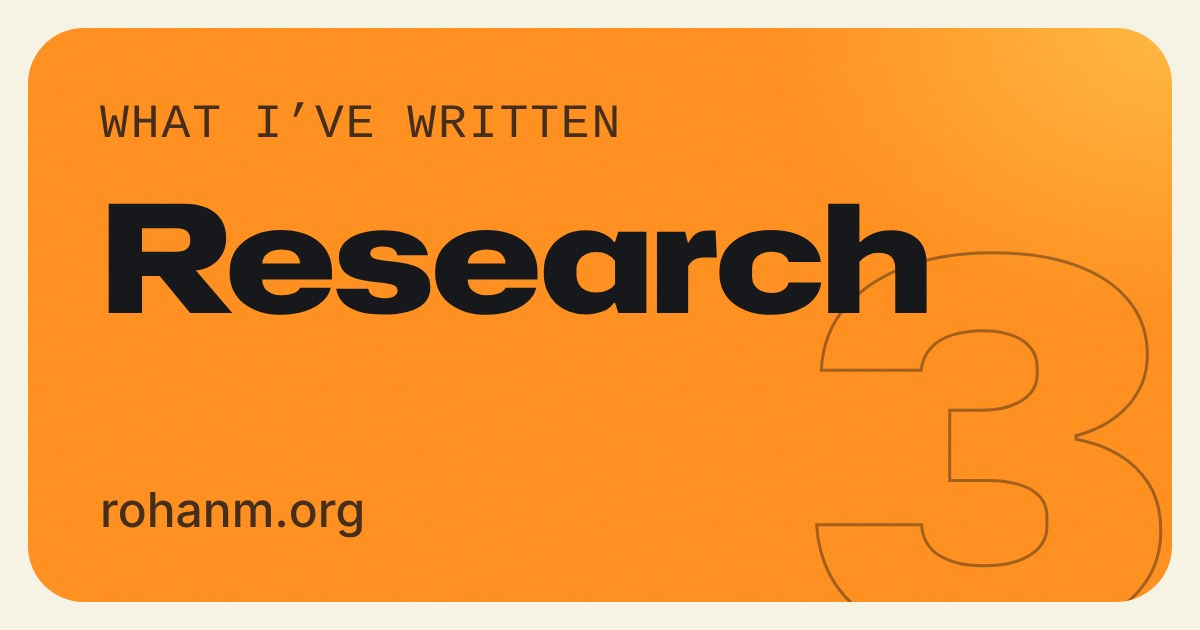
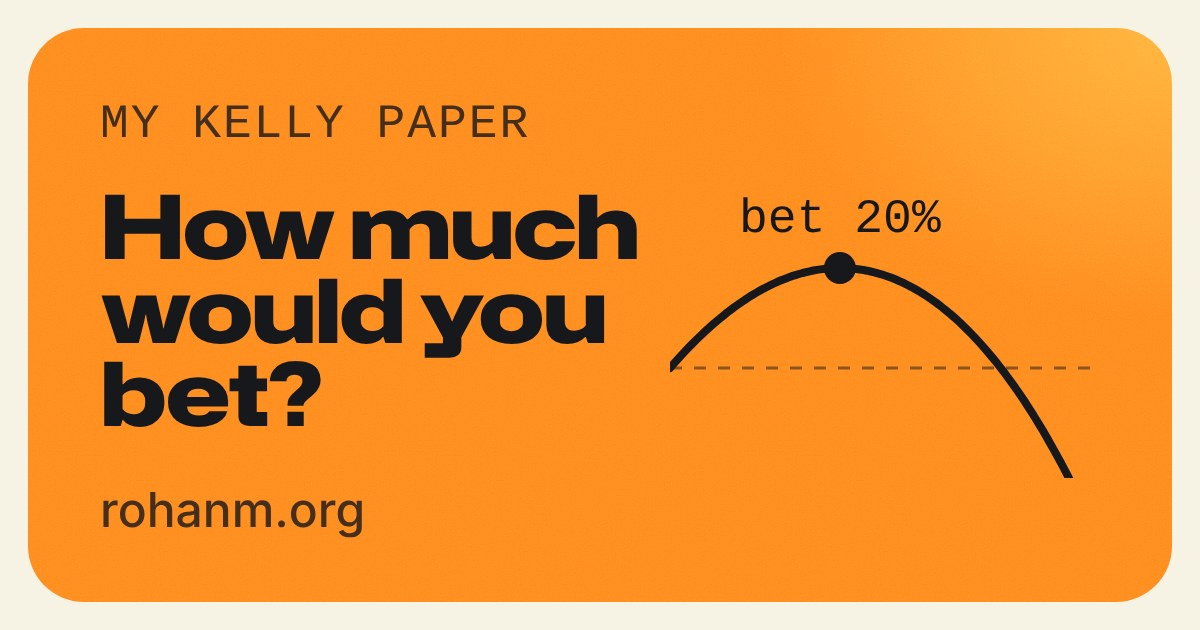
Add who he is to the Home card, and Kelly's question to Research's
- Home: the card is what LinkedIn shows for rohanm.org, and it lost the
  old og.png's context line. Under the name it now says "Math & CS / NYU
  Courant / IBM · Kalshi" at 48 px, in lines that fit beside the lab.
- Research: #26 landed, so the card leads with the Kelly explainer's
  "How much would you bet?" and the paper's growth curve, drawn from
  kelly.js for the page's default bet (a 50¢ contract at a 60% chance),
  peaking at "bet 20%". No axis labels: a feed shows the card too small.
- The harness now renders each card in a fresh tree. Before, React kept
  the title size fit() had set for Experience, so later cards inherited
  it; block names now use one size that fits the longest (Experience),
  which is what the merged cards show, so they're unchanged.
- Alt text follows: Home's names the school and companies, Research's
  describes the question and the curve.

Claude-Session: https://claude.ai/code/session_017h13VFUKe4BLhY64XqK4PP

diff --git a/Ashif/scripts/og/Card.jsx b/Ashif/scripts/og/Card.jsx
@@ -1,4 +1,5 @@
 import SpotPoster from '@/components/projects/spot/SpotPoster';
+import { breakEven, kelly, perBet } from '@/components/research/kelly/kelly';
 import { projects } from '@/data/portfolioData';
 import { BLOCK_CLASS, notFoundRoute, ogCard, routeNumber, routes } from '@/routes';
 import { cn } from '@/lib/utils';
@@ -14,6 +15,14 @@ const PAD = 64;
 // ~100 px onto it, like the hero's.
 const PANEL_LEFT = 620;
 const NAME_SIZE = 126;
+// One size for every block card's name: the size that fits the longest
+// (Experience), so the cards read as a set.
+const TITLE_SIZE = 150;
+// Who he is, at a glance: the hero's intro in short lines that fit beside
+// the lab at 48 px.
+const CONTEXT = ['Math & CS', 'NYU Courant', 'IBM · Kalshi'];
+// The research page's default bet: a 50¢ contract you give a 60% chance.
+const KELLY = { p: 0.6, c: 0.5 };
 
 function Frame({ className, children }) {
   return (
@@ -38,27 +47,33 @@ function HomeCard() {
           style={{ position: 'absolute', left: '50%', top: '50%', width: 760, height: 760, transform: 'translate(-50%, -40%)' }}
         />
       </div>
-      <p
-        className="type-display"
-        style={{
-          position: 'absolute',
-          left: PAD,
-          top: 120,
-          margin: 0,
-          width: 'min-content',
-          fontSize: NAME_SIZE,
-          lineHeight: 0.92,
-          background: `linear-gradient(90deg, var(--fg) ${split}, var(--lab-ink) ${split})`,
-          WebkitBackgroundClip: 'text',
-          backgroundClip: 'text',
-          color: 'transparent',
-        }}
-      >
-        Rohan Malhotra
-      </p>
-      <p className="font-mono" style={{ position: 'absolute', left: PAD, bottom: 64, margin: 0, fontSize: 48, color: 'var(--fg)' }}>
-        {SITE}
-      </p>
+      <div style={{ position: 'absolute', left: PAD, top: 60, bottom: 60, width: PANEL_LEFT - PAD - 24, display: 'flex', flexDirection: 'column' }}>
+        <p
+          className="type-display"
+          style={{
+            margin: 0,
+            width: 'min-content',
+            fontSize: NAME_SIZE,
+            lineHeight: 0.92,
+            background: `linear-gradient(90deg, var(--fg) ${split}, var(--lab-ink) ${split})`,
+            WebkitBackgroundClip: 'text',
+            backgroundClip: 'text',
+            color: 'transparent',
+          }}
+        >
+          Rohan Malhotra
+        </p>
+        <p data-fit="" style={{ margin: '28px 0 0', fontSize: 48, lineHeight: 1.15, fontWeight: 500, color: 'var(--fg)' }}>
+          {CONTEXT.map((line) => (
+            <span key={line} style={{ display: 'block', whiteSpace: 'nowrap' }}>
+              {line}
+            </span>
+          ))}
+        </p>
+        <p className="font-mono" style={{ margin: 'auto 0 0', fontSize: 48, color: 'var(--muted)' }}>
+          {SITE}
+        </p>
+      </div>
     </Frame>
   );
 }
@@ -84,12 +99,70 @@ function BlockCard({ route }) {
         <p className="font-mono text-on-block-muted" style={{ position: 'relative', margin: 0, fontSize: 48, letterSpacing: '0.04em', textTransform: 'uppercase' }}>
           {route.tagline}
         </p>
-        <p data-fit="" className="type-display" style={{ position: 'relative', margin: '24px 0 0', fontSize: 220, lineHeight: 0.95, whiteSpace: 'nowrap' }}>
+        <p data-fit="" className="type-display" style={{ position: 'relative', margin: '24px 0 0', fontSize: TITLE_SIZE, lineHeight: 0.95, whiteSpace: 'nowrap' }}>
           {route.label}
         </p>
         <p className="text-on-block-muted" style={{ position: 'absolute', left: 72, bottom: 56, margin: 0, fontSize: 48, fontWeight: 500 }}>
           {SITE}
         </p>
+      </div>
+    </Frame>
+  );
+}
+
+/**
+ * The Kelly paper's hook, and its growth curve: growth per bet against the
+ * share of money bet, peaking at the Kelly bet and diving below zero past
+ * break-even. No axis labels: a feed shows the card too small for them.
+ */
+function KellyHump({ width, height }) {
+  const { p, c } = KELLY;
+  const best = kelly(p, c);
+  const end = Math.min(0.95, breakEven(p, c) * 1.3);
+  const peak = perBet(p, c, best);
+  // Headroom above the peak for its label; the dive leaves through the bottom.
+  const [top, bottom] = [peak * 1.9, -peak * 1.1];
+  const x = (f) => (f / end) * width;
+  const y = (v) => ((top - v) / (top - bottom)) * height;
+  const points = Array.from({ length: 121 }, (_, i) => {
+    const f = (i / 120) * end;
+    return `${x(f).toFixed(1)},${y(perBet(p, c, f)).toFixed(1)}`;
+  });
+  return (
+    <svg width={width} height={height} viewBox={`0 0 ${width} ${height}`} aria-hidden="true" style={{ overflow: 'hidden' }}>
+      <line x1="0" x2={width} y1={y(0)} y2={y(0)} stroke="var(--on-block)" strokeOpacity="0.5" strokeWidth="3" strokeDasharray="12 12" />
+      <polyline points={points.join(' ')} fill="none" stroke="var(--on-block)" strokeWidth="8" strokeLinecap="round" strokeLinejoin="round" />
+      <circle cx={x(best)} cy={y(peak)} r="16" fill="var(--on-block)" />
+      <text x={x(best)} y={y(peak) - 36} textAnchor="middle" fontSize="48" fill="var(--on-block)" style={{ fontFamily: 'var(--font-mono)' }}>
+        bet {Math.round(best * 100)}%
+      </text>
+    </svg>
+  );
+}
+
+function ResearchCard({ route }) {
+  return (
+    <Frame className="bg-bg">
+      <div
+        className={cn('grain mesh', BLOCK_CLASS[route.block])}
+        style={{ position: 'absolute', inset: 28, borderRadius: 56, overflow: 'hidden', padding: '60px 72px' }}
+      >
+        <p className="font-mono text-on-block-muted" style={{ position: 'relative', margin: 0, fontSize: 48, letterSpacing: '0.04em', textTransform: 'uppercase' }}>
+          My Kelly paper
+        </p>
+        <p className="type-display" style={{ position: 'relative', margin: '24px 0 0', fontSize: 88, lineHeight: 0.95 }}>
+          {['How much', 'would you', 'bet?'].map((line) => (
+            <span key={line} style={{ display: 'block', whiteSpace: 'nowrap' }}>
+              {line}
+            </span>
+          ))}
+        </p>
+        <p className="text-on-block-muted" style={{ position: 'absolute', left: 72, bottom: 56, margin: 0, fontSize: 48, fontWeight: 500 }}>
+          {SITE}
+        </p>
+        <div style={{ position: 'absolute', right: 72, top: 150 }}>
+          <KellyHump width={430} height={300} />
+        </div>
       </div>
     </Frame>
   );
@@ -122,6 +195,7 @@ function CaseCard({ route }) {
 export default function Card({ id }) {
   const route = [...routes, notFoundRoute].find((r) => ogCard(r).id === id);
   if (route.project) return <CaseCard route={route} />;
+  if (route.id === 'research') return <ResearchCard route={route} />;
   if (route.label) return <BlockCard route={route} />;
   return <HomeCard />;
 }

diff --git a/Ashif/src/routes.js b/Ashif/src/routes.js
@@ -55,6 +55,8 @@ export const routes = [
     label: 'Research',
     block: 'c',
     tagline: 'What I’ve written',
+    // Its link-preview card leads with the Kelly explainer's question.
+    ogAlt: 'Research, Rohan Malhotra: “How much would you bet?” over the growth curve from his Kelly-criterion paper, peaking at a 20% bet. rohanm.org',
     title: 'Research — Rohan Malhotra',
     description:
       'Papers on hedging income risk with prediction markets, Reddit sentiment in financial models, and Kelly-criterion capital allocation.',
@@ -147,6 +149,9 @@ export function routeNumber(route) {
 /** The color-block utility for a route's `block`. */
 export const BLOCK_CLASS = { a: 'block-a', b: 'block-b', c: 'block-c' };
 
+const HOME_ALT =
+  'Rohan Malhotra, math & CS at NYU Courant, IBM, Kalshi. rohanm.org: a yellow robot dog in a graphite lab.';
+
 /**
  * A page's link-preview card (og:image): public/og/<id>.jpg, drawn from the
  * page's block by `npm run og` (scripts/og). Pages without a block of their
@@ -160,8 +165,10 @@ export function ogCard(route) {
       alt: `${project.title}, a case study by Rohan Malhotra: the robot's camera view, the pink toy boxed at 0.91.`,
     };
   }
-  if (route.label) return { id: route.id, alt: `${route.label}, Rohan Malhotra: ${route.tagline}. rohanm.org` };
-  return { id: 'home', alt: 'Rohan Malhotra, rohanm.org: a yellow robot dog in a graphite lab.' };
+  if (route.label) {
+    return { id: route.id, alt: route.ogAlt ?? `${route.label}, Rohan Malhotra: ${route.tagline}. rohanm.org` };
+  }
+  return { id: 'home', alt: HOME_ALT };
 }
 
 /** The page that comes after `route` in reading order, for the link at its end. */

diff --git a/Ashif/index.html b/Ashif/index.html
@@ -21,7 +21,7 @@
     <meta property="og:image" content="https://rohanm.org/og/home.jpg" />
     <meta property="og:image:width" content="1200" />
     <meta property="og:image:height" content="630" />
-    <meta property="og:image:alt" content="Rohan Malhotra, rohanm.org: a yellow robot dog in a graphite lab." />
+    <meta property="og:image:alt" content="Rohan Malhotra, math &amp; CS at NYU Courant, IBM, Kalshi. rohanm.org: a yellow robot dog in a graphite lab." />
 
     <meta name="twitter:card" content="summary_large_image" />
     <meta name="twitter:title" content="Rohan Malhotra" />
@@ -30,7 +30,7 @@
       content="Applied AI, robotics, and quantitative systems. IBM, Kalshi, NYU Courant, and more than twenty projects."
     />
     <meta name="twitter:image" content="https://rohanm.org/og/home.jpg" />
-    <meta name="twitter:image:alt" content="Rohan Malhotra, rohanm.org: a yellow robot dog in a graphite lab." />
+    <meta name="twitter:image:alt" content="Rohan Malhotra, math &amp; CS at NYU Courant, IBM, Kalshi. rohanm.org: a yellow robot dog in a graphite lab." />
 
     <link rel="icon" type="image/svg+xml" href="/favicon.svg" />
     <link rel="icon" type="image/png" sizes="32x32" href="/favicon-32x32.png" />

diff --git a/Ashif/scripts/og/main.jsx b/Ashif/scripts/og/main.jsx
@@ -22,7 +22,8 @@ window.cardIds = () => [...new Set([...routes, notFoundRoute].map((route) => ogC
 
 /** Render one card and wait until its fonts and images are in. */
 window.renderCard = async (id) => {
-  flushSync(() => root.render(<Card id={id} />));
+  // A fresh tree per card: fit() sets sizes inline, and React would keep them.
+  flushSync(() => root.render(<Card key={id} id={id} />));
   await document.fonts.ready;
   await Promise.all([...document.images].map((img) => img.decode().catch(() => {})));
   fit();
